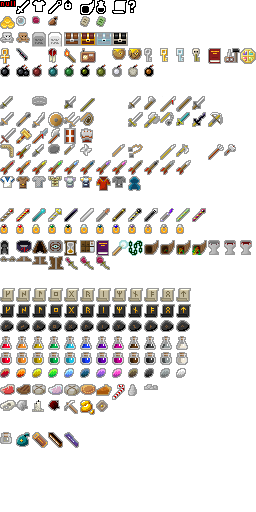
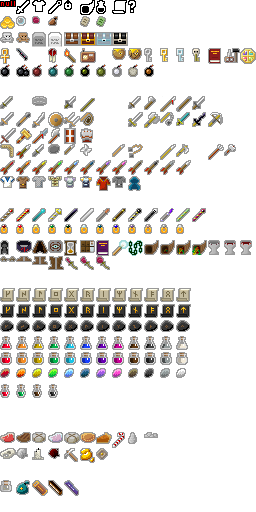
v0.7.0: added 3 initial elixirs

diff --git a/core/src/main/java/com/shatteredpixel/shatteredpixeldungeon/items/potions/elixirs/ElixirOfDragonsBlood.java b/core/src/main/java/com/shatteredpixel/shatteredpixeldungeon/items/potions/elixirs/ElixirOfDragonsBlood.java
@@ -1,0 +1,66 @@
+/*
+ * Pixel Dungeon
+ * Copyright (C) 2012-2015 Oleg Dolya
+ *
+ * Shattered Pixel Dungeon
+ * Copyright (C) 2014-2018 Evan Debenham
+ *
+ * This program is free software: you can redistribute it and/or modify
+ * it under the terms of the GNU General Public License as published by
+ * the Free Software Foundation, either version 3 of the License, or
+ * (at your option) any later version.
+ *
+ * This program is distributed in the hope that it will be useful,
+ * but WITHOUT ANY WARRANTY; without even the implied warranty of
+ * MERCHANTABILITY or FITNESS FOR A PARTICULAR PURPOSE.  See the
+ * GNU General Public License for more details.
+ *
+ * You should have received a copy of the GNU General Public License
+ * along with this program.  If not, see <http://www.gnu.org/licenses/>
+ */
+
+package com.shatteredpixel.shatteredpixeldungeon.items.potions.elixirs;
+
+import com.shatteredpixel.shatteredpixeldungeon.Assets;
+import com.shatteredpixel.shatteredpixeldungeon.actors.buffs.Buff;
+import com.shatteredpixel.shatteredpixeldungeon.actors.buffs.FireImbue;
+import com.shatteredpixel.shatteredpixeldungeon.actors.hero.Hero;
+import com.shatteredpixel.shatteredpixeldungeon.effects.particles.FlameParticle;
+import com.shatteredpixel.shatteredpixeldungeon.items.potions.PotionOfLiquidFlame;
+import com.shatteredpixel.shatteredpixeldungeon.items.potions.PotionOfPurity;
+import com.shatteredpixel.shatteredpixeldungeon.sprites.ItemSpriteSheet;
+import com.watabou.noosa.audio.Sample;
+
+public class ElixirOfDragonsBlood extends Elixir {
+	
+	{
+		//TODO finish visuals
+		image = ItemSpriteSheet.ELIXIR_DRAGON;
+	}
+	
+	@Override
+	public void apply(Hero hero) {
+		Buff.affect(hero, FireImbue.class).set(FireImbue.DURATION);
+		Sample.INSTANCE.play( Assets.SND_BURNING );
+		hero.sprite.emitter().burst(FlameParticle.FACTORY, 10);
+	}
+	
+	@Override
+	protected int splashColor() {
+		return 0xFFFF002A;
+	}
+	
+	public static class Recipe extends com.shatteredpixel.shatteredpixeldungeon.items.Recipe.SimpleRecipe {
+		
+		{
+			inputs =  new Class[]{PotionOfLiquidFlame.class, PotionOfPurity.class};
+			inQuantity = new int[]{1, 1};
+			
+			cost = 2;
+			
+			output = ElixirOfDragonsBlood.class;
+			outQuantity = 1;
+		}
+		
+	}
+}

diff --git a/core/src/main/java/com/shatteredpixel/shatteredpixeldungeon/sprites/ItemSpriteSheet.java b/core/src/main/java/com/shatteredpixel/shatteredpixeldungeon/sprites/ItemSpriteSheet.java
@@ -514,8 +514,18 @@ public class ItemSpriteSheet {
 		for (int i = SEEDS; i < SEEDS+16; i++)
 			assignItemRect(i, 10, 10);
 	}
+	
+	private static final int ELIXIRS        =                               xy(1, 25);  //16 slots
+	public static final int ELIXIR_DRAGON   = ELIXIRS+0;
+	public static final int ELIXIR_TOXIC    = ELIXIRS+1;
+	public static final int ELIXIR_EARTH    = ELIXIRS+2;
+	static{
+		assignItemRect(ELIXIR_DRAGON,   10, 14);
+		assignItemRect(ELIXIR_TOXIC,    10, 14);
+		assignItemRect(ELIXIR_EARTH,    10, 14);
+	}
 
-	private static final int FOOD       =                                   xy(1, 25);  //16 slots
+	private static final int FOOD       =                                   xy(1, 28);  //16 slots
 	public static final int MEAT        = FOOD+0;
 	public static final int STEAK       = FOOD+1;
 	public static final int OVERPRICED  = FOOD+2;
@@ -539,7 +549,7 @@ public class ItemSpriteSheet {
 		assignItemRect(BLAND_CHUNKS,14, 6);
 	}
 
-	private static final int QUEST  =                                       xy(1, 26);  //32 slots
+	private static final int QUEST  =                                       xy(1, 29);  //32 slots
 	public static final int SKULL   = QUEST+0;
 	public static final int DUST    = QUEST+1;
 	public static final int CANDLE  = QUEST+2;
@@ -555,10 +565,9 @@ public class ItemSpriteSheet {
 		assignItemRect(PICKAXE, 14, 14);
 		assignItemRect(ORE,     15, 15);
 		assignItemRect(TOKEN,   12, 12);
-
 	}
 
-	private static final int BAGS       =                                   xy(1, 28);  //16 slots
+	private static final int BAGS       =                                   xy(1, 31);  //16 slots
 	public static final int VIAL        = BAGS+0;
 	public static final int POUCH       = BAGS+1;
 	public static final int HOLDER      = BAGS+2;
@@ -572,7 +581,7 @@ public class ItemSpriteSheet {
 		assignItemRect(HOLSTER,     15, 16);
 	}
 
-	                                                                                    //64 free slots
+	                                                                                    //16 free slots
 
 
 	private static void assignItemRect( int item, int width, int height){

diff --git a/core/src/main/java/com/shatteredpixel/shatteredpixeldungeon/items/potions/elixirs/ElixirOfToxicEssence.java b/core/src/main/java/com/shatteredpixel/shatteredpixeldungeon/items/potions/elixirs/ElixirOfToxicEssence.java
@@ -1,0 +1,64 @@
+/*
+ * Pixel Dungeon
+ * Copyright (C) 2012-2015 Oleg Dolya
+ *
+ * Shattered Pixel Dungeon
+ * Copyright (C) 2014-2018 Evan Debenham
+ *
+ * This program is free software: you can redistribute it and/or modify
+ * it under the terms of the GNU General Public License as published by
+ * the Free Software Foundation, either version 3 of the License, or
+ * (at your option) any later version.
+ *
+ * This program is distributed in the hope that it will be useful,
+ * but WITHOUT ANY WARRANTY; without even the implied warranty of
+ * MERCHANTABILITY or FITNESS FOR A PARTICULAR PURPOSE.  See the
+ * GNU General Public License for more details.
+ *
+ * You should have received a copy of the GNU General Public License
+ * along with this program.  If not, see <http://www.gnu.org/licenses/>
+ */
+
+package com.shatteredpixel.shatteredpixeldungeon.items.potions.elixirs;
+
+import com.shatteredpixel.shatteredpixeldungeon.actors.buffs.Buff;
+import com.shatteredpixel.shatteredpixeldungeon.actors.buffs.ToxicImbue;
+import com.shatteredpixel.shatteredpixeldungeon.actors.hero.Hero;
+import com.shatteredpixel.shatteredpixeldungeon.effects.particles.PoisonParticle;
+import com.shatteredpixel.shatteredpixeldungeon.items.potions.PotionOfPurity;
+import com.shatteredpixel.shatteredpixeldungeon.items.potions.PotionOfToxicGas;
+import com.shatteredpixel.shatteredpixeldungeon.sprites.ItemSpriteSheet;
+
+public class ElixirOfToxicEssence extends Elixir {
+	
+	{
+		//TODO finish visuals
+		image = ItemSpriteSheet.ELIXIR_TOXIC;
+	}
+	
+	@Override
+	public void apply(Hero hero) {
+		Buff.affect(hero, ToxicImbue.class).set(ToxicImbue.DURATION);
+		hero.sprite.emitter().burst(PoisonParticle.SPLASH, 10);
+	}
+	
+	@Override
+	protected int splashColor() {
+		return 0xFF00B34A;
+	}
+	
+	public static class Recipe extends com.shatteredpixel.shatteredpixeldungeon.items.Recipe.SimpleRecipe {
+		
+		{
+			inputs =  new Class[]{PotionOfToxicGas.class, PotionOfPurity.class};
+			inQuantity = new int[]{1, 1};
+			
+			cost = 2;
+			
+			output = ElixirOfToxicEssence.class;
+			outQuantity = 1;
+		}
+		
+	}
+	
+}

diff --git a/core/src/main/java/com/shatteredpixel/shatteredpixeldungeon/items/potions/elixirs/ElixirOfEarthenPower.java b/core/src/main/java/com/shatteredpixel/shatteredpixeldungeon/items/potions/elixirs/ElixirOfEarthenPower.java
@@ -1,0 +1,63 @@
+/*
+ * Pixel Dungeon
+ * Copyright (C) 2012-2015 Oleg Dolya
+ *
+ * Shattered Pixel Dungeon
+ * Copyright (C) 2014-2018 Evan Debenham
+ *
+ * This program is free software: you can redistribute it and/or modify
+ * it under the terms of the GNU General Public License as published by
+ * the Free Software Foundation, either version 3 of the License, or
+ * (at your option) any later version.
+ *
+ * This program is distributed in the hope that it will be useful,
+ * but WITHOUT ANY WARRANTY; without even the implied warranty of
+ * MERCHANTABILITY or FITNESS FOR A PARTICULAR PURPOSE.  See the
+ * GNU General Public License for more details.
+ *
+ * You should have received a copy of the GNU General Public License
+ * along with this program.  If not, see <http://www.gnu.org/licenses/>
+ */
+
+package com.shatteredpixel.shatteredpixeldungeon.items.potions.elixirs;
+
+import com.shatteredpixel.shatteredpixeldungeon.actors.buffs.Buff;
+import com.shatteredpixel.shatteredpixeldungeon.actors.buffs.EarthImbue;
+import com.shatteredpixel.shatteredpixeldungeon.actors.hero.Hero;
+import com.shatteredpixel.shatteredpixeldungeon.effects.particles.EarthParticle;
+import com.shatteredpixel.shatteredpixeldungeon.items.potions.PotionOfHaste;
+import com.shatteredpixel.shatteredpixeldungeon.items.potions.PotionOfParalyticGas;
+import com.shatteredpixel.shatteredpixeldungeon.sprites.ItemSpriteSheet;
+
+public class ElixirOfEarthenPower extends Elixir {
+	
+	{
+		//TODO finish visuals
+		image = ItemSpriteSheet.ELIXIR_EARTH;
+	}
+	
+	@Override
+	public void apply(Hero hero) {
+		Buff.affect(hero, EarthImbue.class, EarthImbue.DURATION);
+		hero.sprite.emitter().burst(EarthParticle.FACTORY, 5);
+	}
+	
+	@Override
+	protected int splashColor() {
+		return 0xFF603913;
+	}
+	
+	public static class Recipe extends com.shatteredpixel.shatteredpixeldungeon.items.Recipe.SimpleRecipe {
+		
+		{
+			inputs =  new Class[]{PotionOfParalyticGas.class, PotionOfHaste.class};
+			inQuantity = new int[]{1, 1};
+			
+			cost = 2;
+			
+			output = ElixirOfEarthenPower.class;
+			outQuantity = 1;
+		}
+		
+	}
+}

diff --git a/core/src/main/java/com/shatteredpixel/shatteredpixeldungeon/items/Recipe.java b/core/src/main/java/com/shatteredpixel/shatteredpixeldungeon/items/Recipe.java
@@ -25,6 +25,9 @@ import com.shatteredpixel.shatteredpixeldungeon.ShatteredPixelDungeon;
 import com.shatteredpixel.shatteredpixeldungeon.items.bombs.Bomb;
 import com.shatteredpixel.shatteredpixeldungeon.items.food.Blandfruit;
 import com.shatteredpixel.shatteredpixeldungeon.items.potions.Potion;
+import com.shatteredpixel.shatteredpixeldungeon.items.potions.elixirs.ElixirOfDragonsBlood;
+import com.shatteredpixel.shatteredpixeldungeon.items.potions.elixirs.ElixirOfEarthenPower;
+import com.shatteredpixel.shatteredpixeldungeon.items.potions.elixirs.ElixirOfToxicEssence;
 import com.shatteredpixel.shatteredpixeldungeon.items.potions.exotic.ExoticPotion;
 import com.shatteredpixel.shatteredpixeldungeon.items.scrolls.Scroll;
 import com.shatteredpixel.shatteredpixeldungeon.items.scrolls.exotic.ExoticScroll;
@@ -121,7 +124,10 @@ public abstract class Recipe {
 	
 	private static Recipe[] twoIngredientRecipes = new Recipe[]{
 		new Blandfruit.CookFruit(),
-		new TippedDart.TipDart()
+		new TippedDart.TipDart(),
+		new ElixirOfDragonsBlood.Recipe(),
+		new ElixirOfEarthenPower.Recipe(),
+		new ElixirOfToxicEssence.Recipe()
 	};
 	
 	private static Recipe[] threeIngredientRecipes = new Recipe[]{

diff --git a/core/src/main/java/com/shatteredpixel/shatteredpixeldungeon/items/potions/elixirs/Elixir.java b/core/src/main/java/com/shatteredpixel/shatteredpixeldungeon/items/potions/elixirs/Elixir.java
@@ -1,0 +1,35 @@
+/*
+ * Pixel Dungeon
+ * Copyright (C) 2012-2015 Oleg Dolya
+ *
+ * Shattered Pixel Dungeon
+ * Copyright (C) 2014-2018 Evan Debenham
+ *
+ * This program is free software: you can redistribute it and/or modify
+ * it under the terms of the GNU General Public License as published by
+ * the Free Software Foundation, either version 3 of the License, or
+ * (at your option) any later version.
+ *
+ * This program is distributed in the hope that it will be useful,
+ * but WITHOUT ANY WARRANTY; without even the implied warranty of
+ * MERCHANTABILITY or FITNESS FOR A PARTICULAR PURPOSE.  See the
+ * GNU General Public License for more details.
+ *
+ * You should have received a copy of the GNU General Public License
+ * along with this program.  If not, see <http://www.gnu.org/licenses/>
+ */
+
+package com.shatteredpixel.shatteredpixeldungeon.items.potions.elixirs;
+
+import com.shatteredpixel.shatteredpixeldungeon.actors.hero.Hero;
+import com.shatteredpixel.shatteredpixeldungeon.items.potions.Potion;
+
+public abstract class Elixir extends Potion {
+	
+	public abstract void apply( Hero hero );
+	
+	@Override
+	public boolean isKnown() {
+		return true;
+	}
+}

diff --git a/core/src/main/java/com/shatteredpixel/shatteredpixeldungeon/items/potions/Potion.java b/core/src/main/java/com/shatteredpixel/shatteredpixeldungeon/items/potions/Potion.java
@@ -380,13 +380,17 @@ public class Potion extends Item {
 		return handler.known().size() == potions.length;
 	}
 	
+	protected int splashColor(){
+		return ItemSprite.pick( image, 8, 10 );
+	}
+	
 	protected void splash( int cell ) {
 
 		Fire fire = (Fire)Dungeon.level.blobs.get( Fire.class );
 		if (fire != null)
 			fire.clear( cell );
 
-		final int color = ItemSprite.pick( image, 8, 10 );
+		final int color = splashColor();
 
 		Char ch = Actor.findChar(cell);
 		if (ch != null) {

diff --git a/core/src/main/java/com/shatteredpixel/shatteredpixeldungeon/actors/buffs/EarthImbue.java b/core/src/main/java/com/shatteredpixel/shatteredpixeldungeon/actors/buffs/EarthImbue.java
@@ -32,6 +32,7 @@ public class EarthImbue extends FlavourBuff {
 	
 	{
 		type = buffType.POSITIVE;
+		announced = true;
 	}
 
 	public static final float DURATION	= 30f;

diff --git a/core/src/main/java/com/shatteredpixel/shatteredpixeldungeon/actors/buffs/ToxicImbue.java b/core/src/main/java/com/shatteredpixel/shatteredpixeldungeon/actors/buffs/ToxicImbue.java
@@ -33,6 +33,7 @@ public class ToxicImbue extends Buff {
 	
 	{
 		type = buffType.POSITIVE;
+		announced = true;
 	}
 
 	public static final float DURATION	= 30f;

diff --git a/core/src/main/java/com/shatteredpixel/shatteredpixeldungeon/actors/buffs/FireImbue.java b/core/src/main/java/com/shatteredpixel/shatteredpixeldungeon/actors/buffs/FireImbue.java
@@ -36,6 +36,7 @@ public class FireImbue extends Buff {
 	
 	{
 		type = buffType.POSITIVE;
+		announced = true;
 	}
 
 	public static final float DURATION	= 30f;
